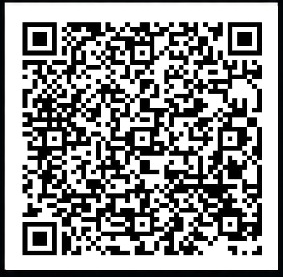
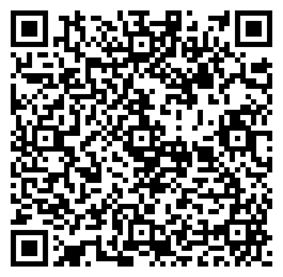
Atualiza valor de participação para R$ 690,00.
Regenera o QR Code Pix com o novo valor codificado no payload
(campo de valor e CRC16 recalculados).

diff --git a/LP Unique/index.html b/LP Unique/index.html
@@ -443,8 +443,8 @@
 
             <div class="invest-panel__value">
               <span class="invest-panel__label">Valor de participação</span>
-              <span class="invest-panel__amount">R$ 590,00</span>
-              <span class="invest-panel__ext">quinhentos e noventa reais</span>
+              <span class="invest-panel__amount">R$ 690,00</span>
+              <span class="invest-panel__ext">seiscentos e noventa reais</span>
             </div>
 
             <ol class="invest-panel__steps">
@@ -454,7 +454,7 @@
               </li>
               <li>
                 <span class="invest-panel__step-num" aria-hidden="true">02</span>
-                <span>Confirme o valor de R$ 590,00</span>
+                <span>Confirme o valor de R$ 690,00</span>
               </li>
               <li>
                 <span class="invest-panel__step-num" aria-hidden="true">03</span>
@@ -481,7 +481,7 @@
                 <span class="qr-block__option">Opção 1 · Pix</span>
                 <img src="assets/qr-pix.png" alt="QR Code para pagamento via Pix" width="240" height="240" loading="lazy" />
                 <figcaption>Escaneie ou copie o código</figcaption>
-                <button class="pix-copy" type="button" data-pix-copy="00020126510014br.gov.bcb.pix0114369837850001070211Club Unique5204000053039865406590.005802BR5925DANIEL SALOMAO AUGUSTO GI6014Belo Horizonte62290525DANIELSA00000665681487ASA6304BBA9">Copiar código Pix</button>
+                <button class="pix-copy" type="button" data-pix-copy="00020126510014br.gov.bcb.pix0114369837850001070211Club Unique5204000053039865406690.005802BR5925DANIEL SALOMAO AUGUSTO GI6014Belo Horizonte62290525DANIELSA00000665681487ASA63043CFA">Copiar código Pix</button>
               </figure>
               <figure class="qr-block">
                 <span class="qr-block__option">Opção 2 · Cartão</span>
